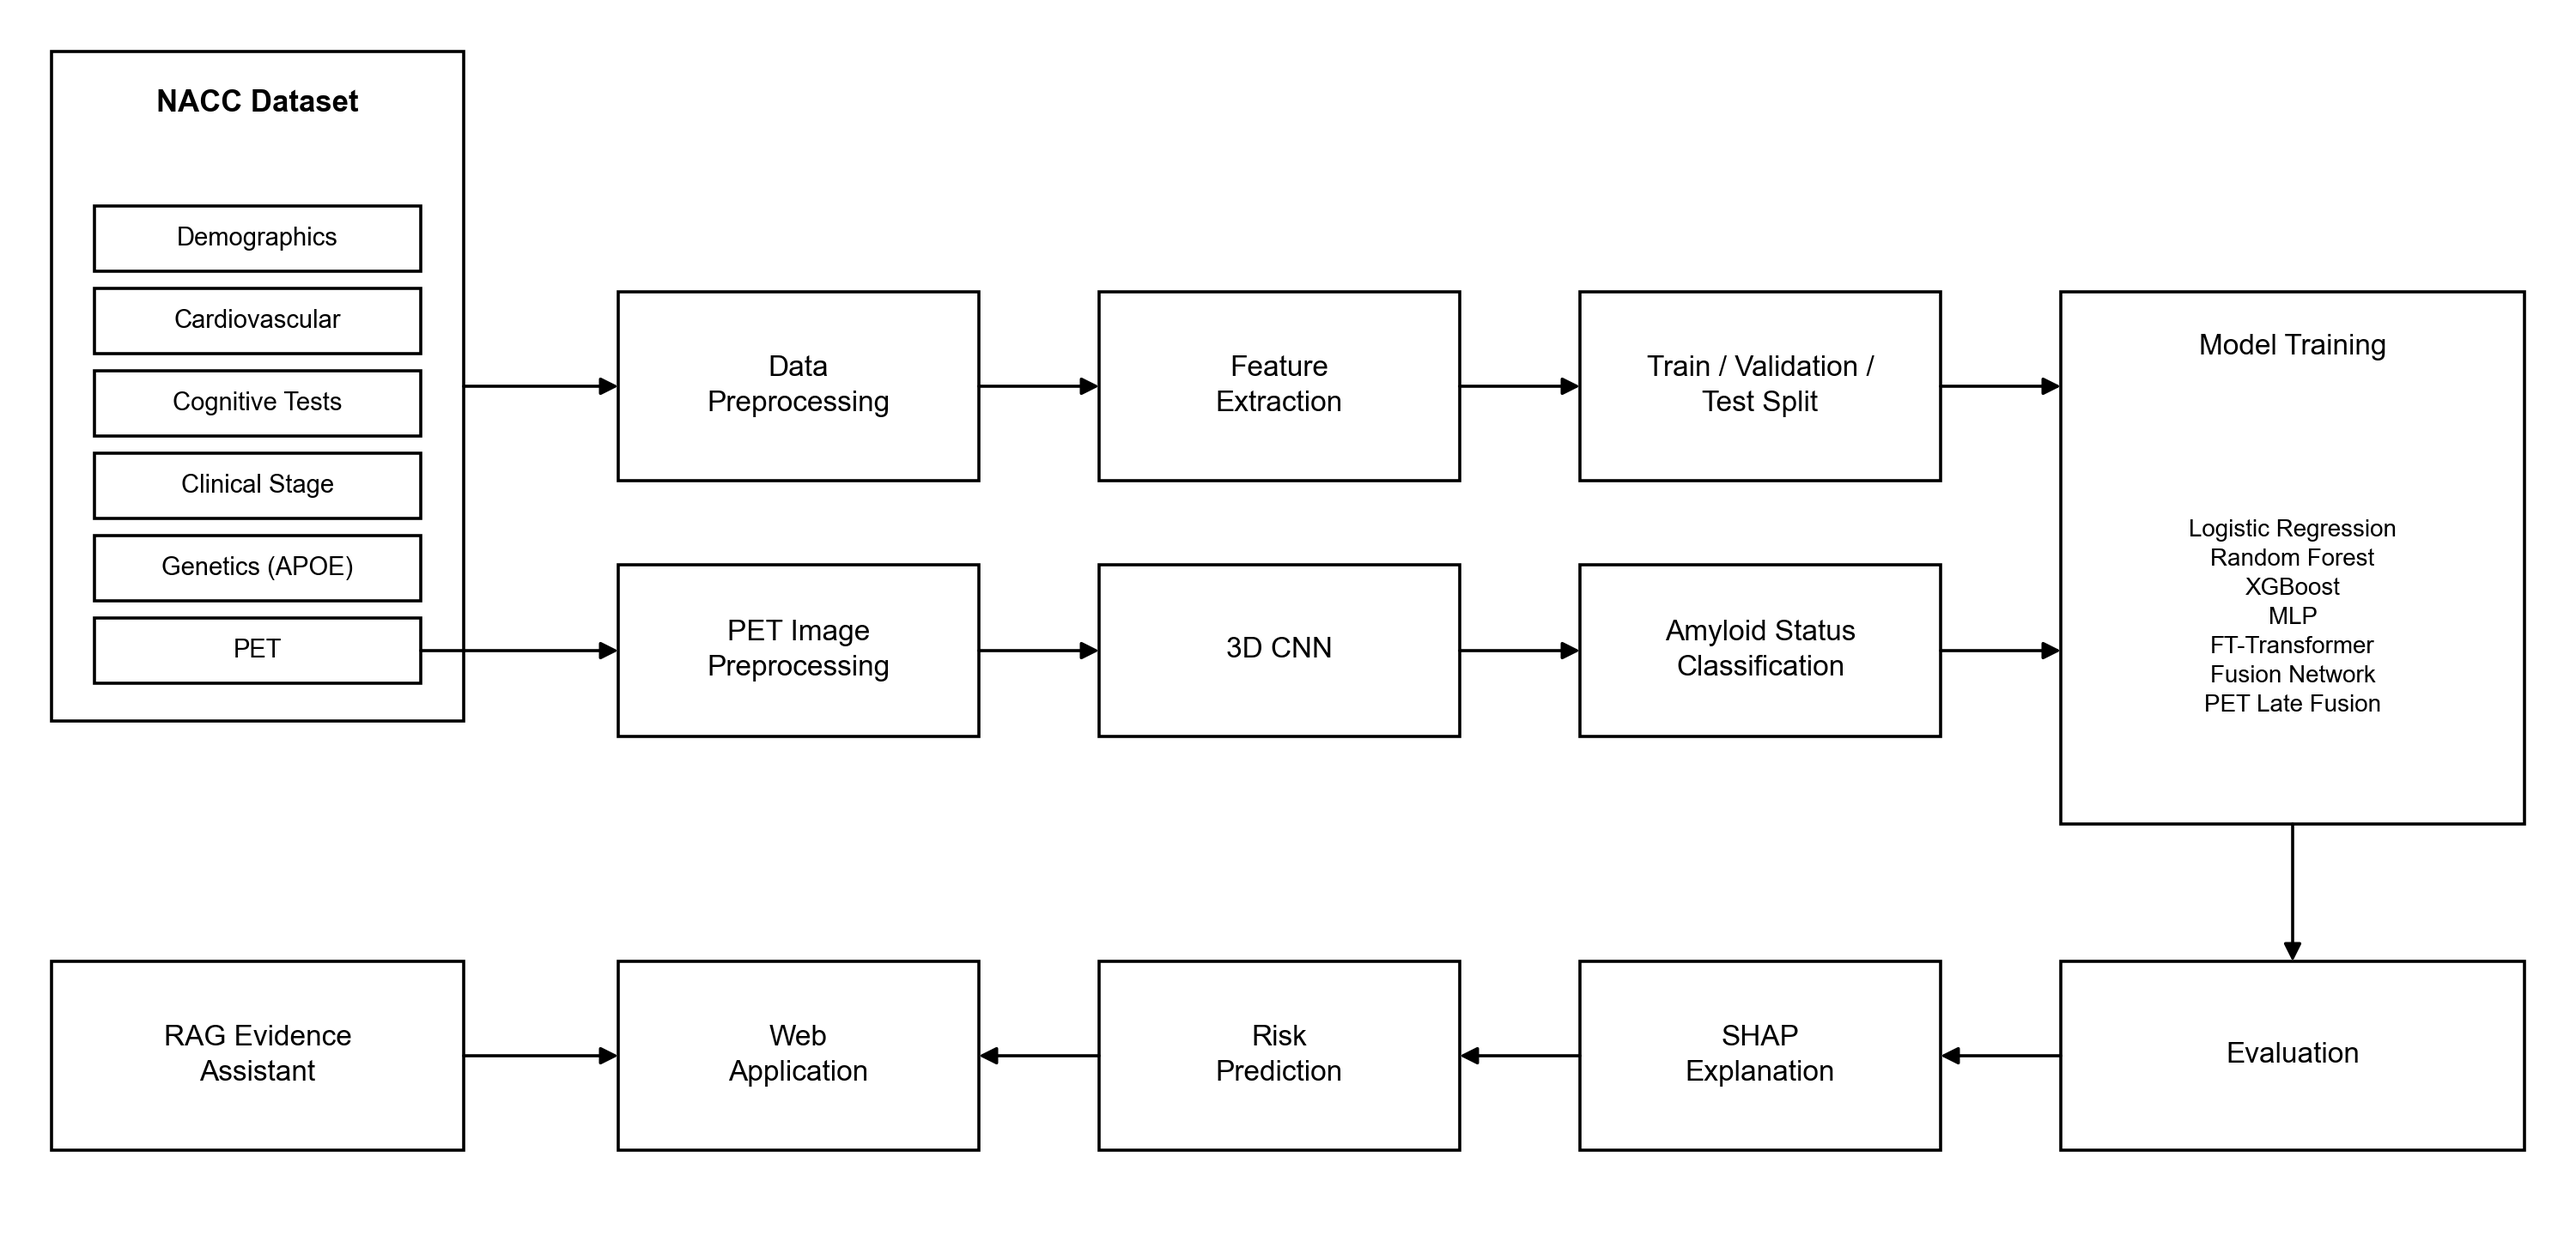
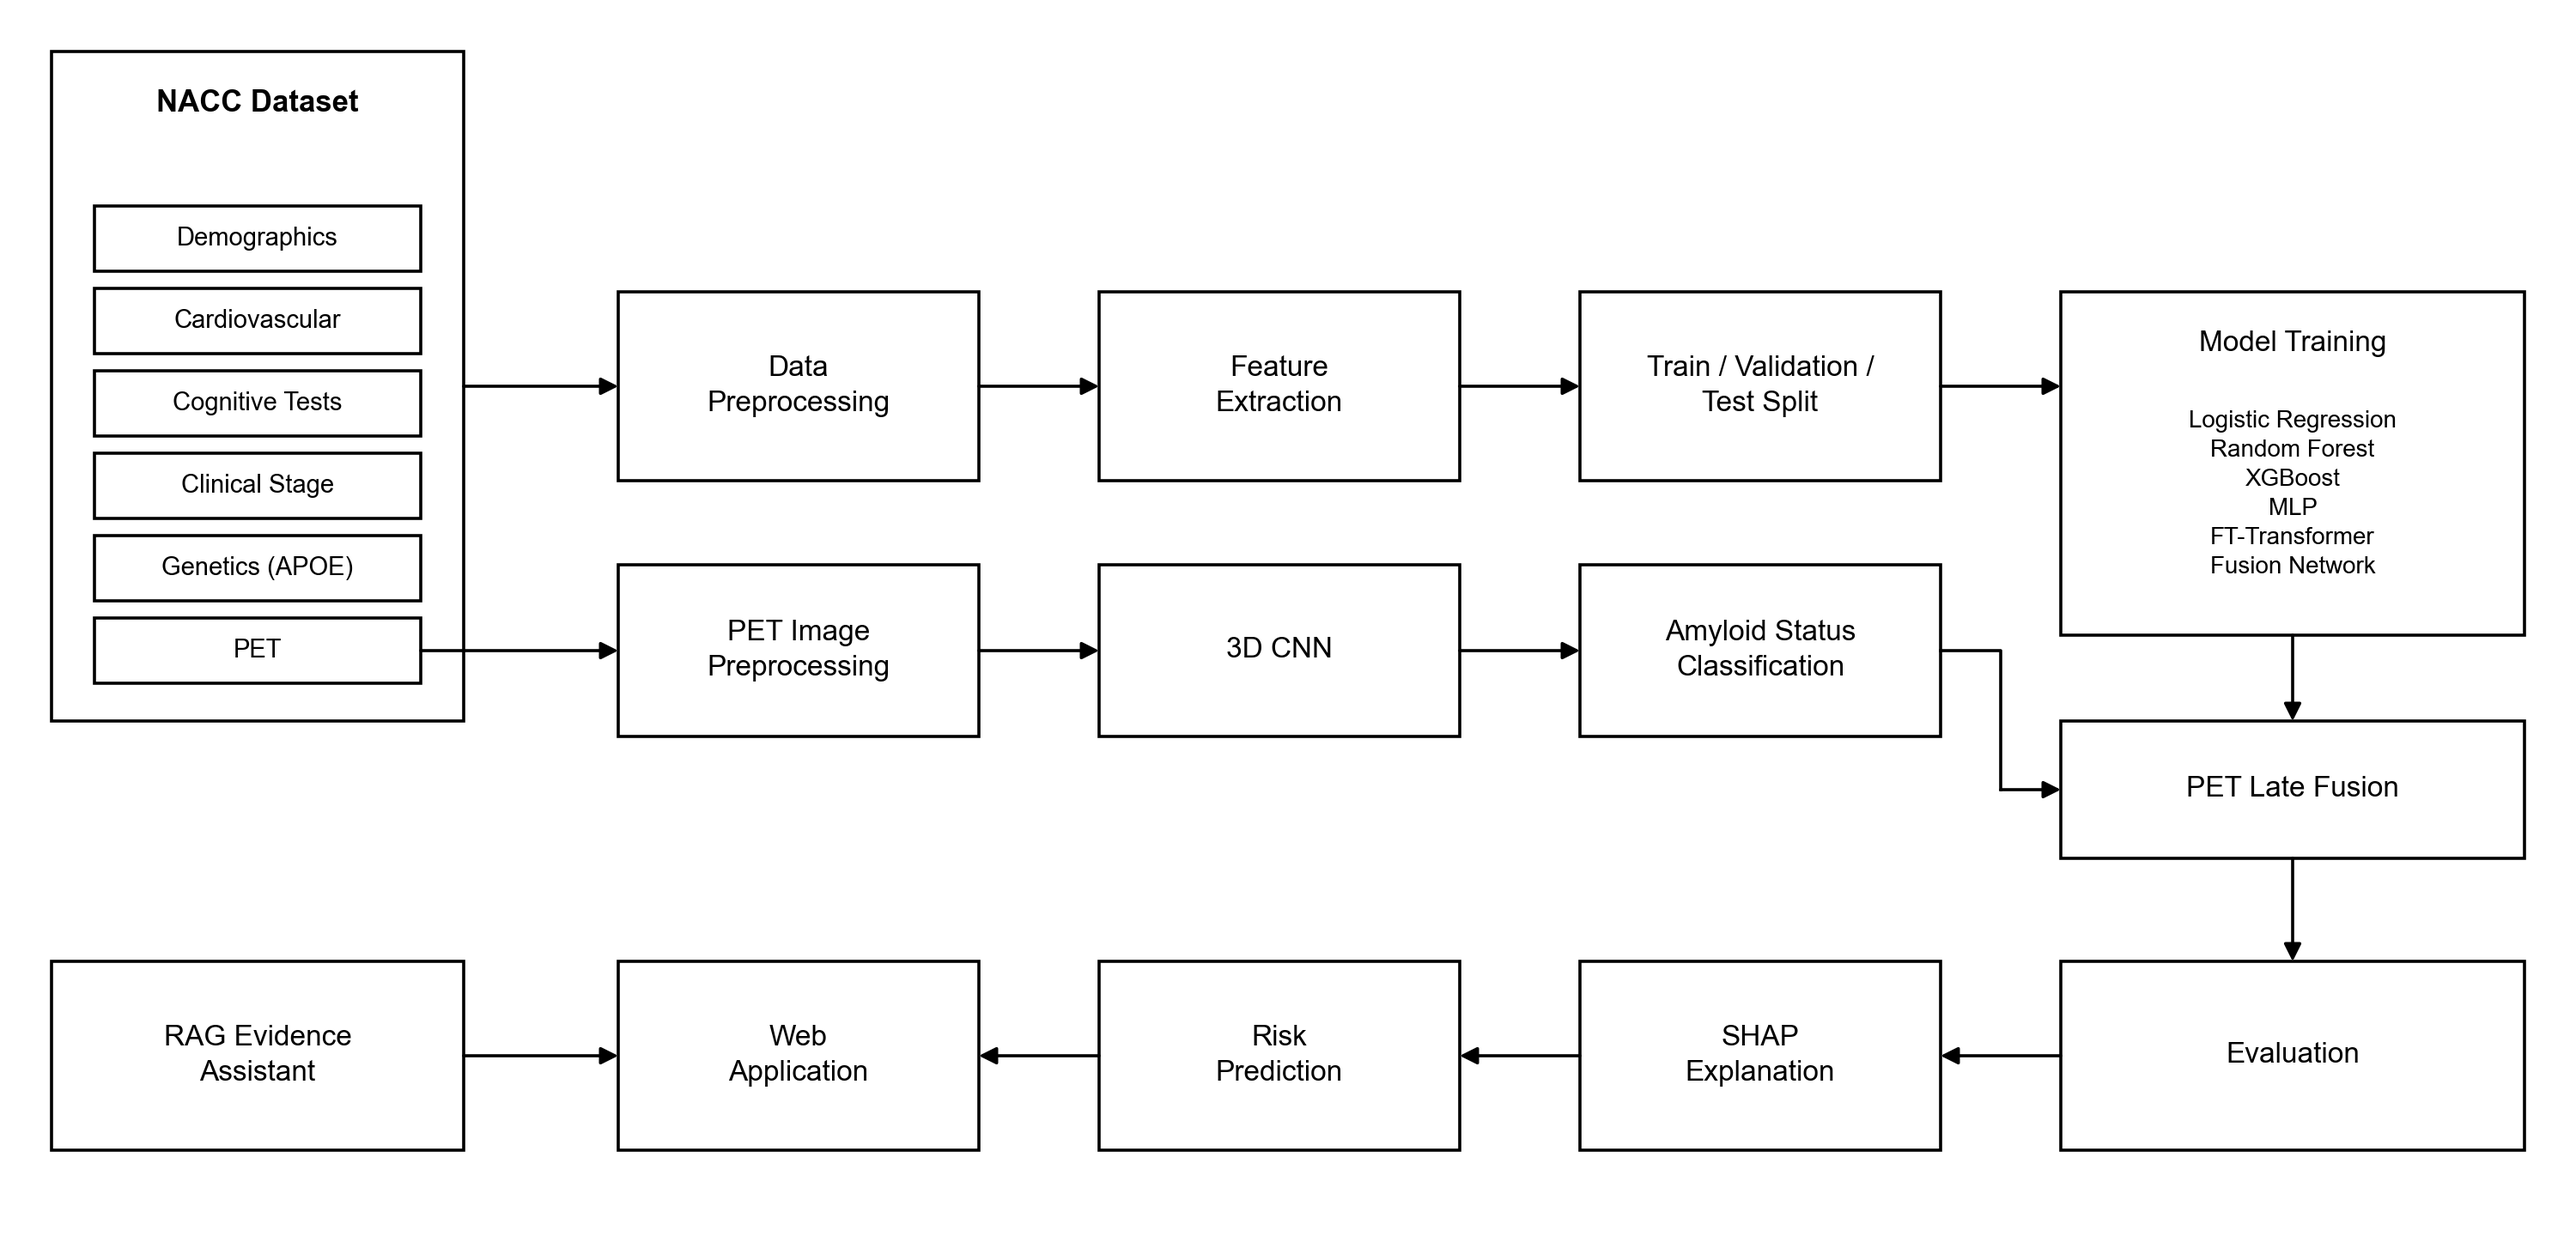
Block diagram: PET joins after model training through PET late fusion

diff --git a/thesis/make_block_diagram.py b/thesis/make_block_diagram.py
@@ -48,10 +48,14 @@ for a, b in zip(xs[:-1], xs[1:]):
     arrow(a + BW, RY + RH / 2, b, RY + RH / 2)
 
 # model training, with the models inside
-ax.add_patch(Rectangle((120, 24), 27, RY + RH - 24, fc="white", ec="black", lw=1.3))
-ax.text(133.5, RY + RH - 3.2, "Model Training", ha="center", va="center", fontsize=12)
-ax.text(133.5, 36.0, "Logistic Regression\nRandom Forest\nXGBoost\nMLP\nFT-Transformer\nFusion Network\nPET Late Fusion",
+ax.add_patch(Rectangle((120, 35), 27, RY + RH - 35, fc="white", ec="black", lw=1.3))
+ax.text(133.5, RY + RH - 3.0, "Model Training", ha="center", va="center", fontsize=12)
+ax.text(133.5, 43.2, "Logistic Regression\nRandom Forest\nXGBoost\nMLP\nFT-Transformer\nFusion Network",
         ha="center", va="center", fontsize=10, linespacing=1.4)
+
+# PET late fusion, after model training
+box(120, 22, 27, 8, "PET Late Fusion")
+arrow(133.5, 35, 133.5, 30)
 
 # PET image branch
 pet_y = 60 - 3.8 - 5 * 4.8 + 1.9          # centre of the PET input box
@@ -62,14 +66,15 @@ for x, t in pet:
 arrow(24.5, pet_y, 36, pet_y)
 for (xa, _), (xb, _) in zip(pet[:-1], pet[1:]):
     arrow(xa + BW, pet_y, xb, pet_y)
-arrow(pet[-1][0] + BW, pet_y, 120, pet_y)   # PET branch into model training
+ax.plot([pet[-1][0] + BW, 116.5, 116.5], [pet_y, pet_y, 26], color="black", lw=1.3)   # PET branch into late fusion
+arrow(116.5, 26, 120, 26)
 
 # row 2 (right to left)
 R2Y = 5
 row2 = [(120, 27, "Evaluation"), (92, BW, "SHAP\nExplanation"), (64, BW, "Risk\nPrediction"), (36, BW, "Web\nApplication")]
 for x, w, t in row2:
     box(x, R2Y, w, RH, t)
-arrow(133.5, 24, 133.5, R2Y + RH)
+arrow(133.5, 22, 133.5, R2Y + RH)
 for (xa, wa, _), (xb, wb, _) in zip(row2[:-1], row2[1:]):
     arrow(xa, R2Y + RH / 2, xb + wb, R2Y + RH / 2)
 
